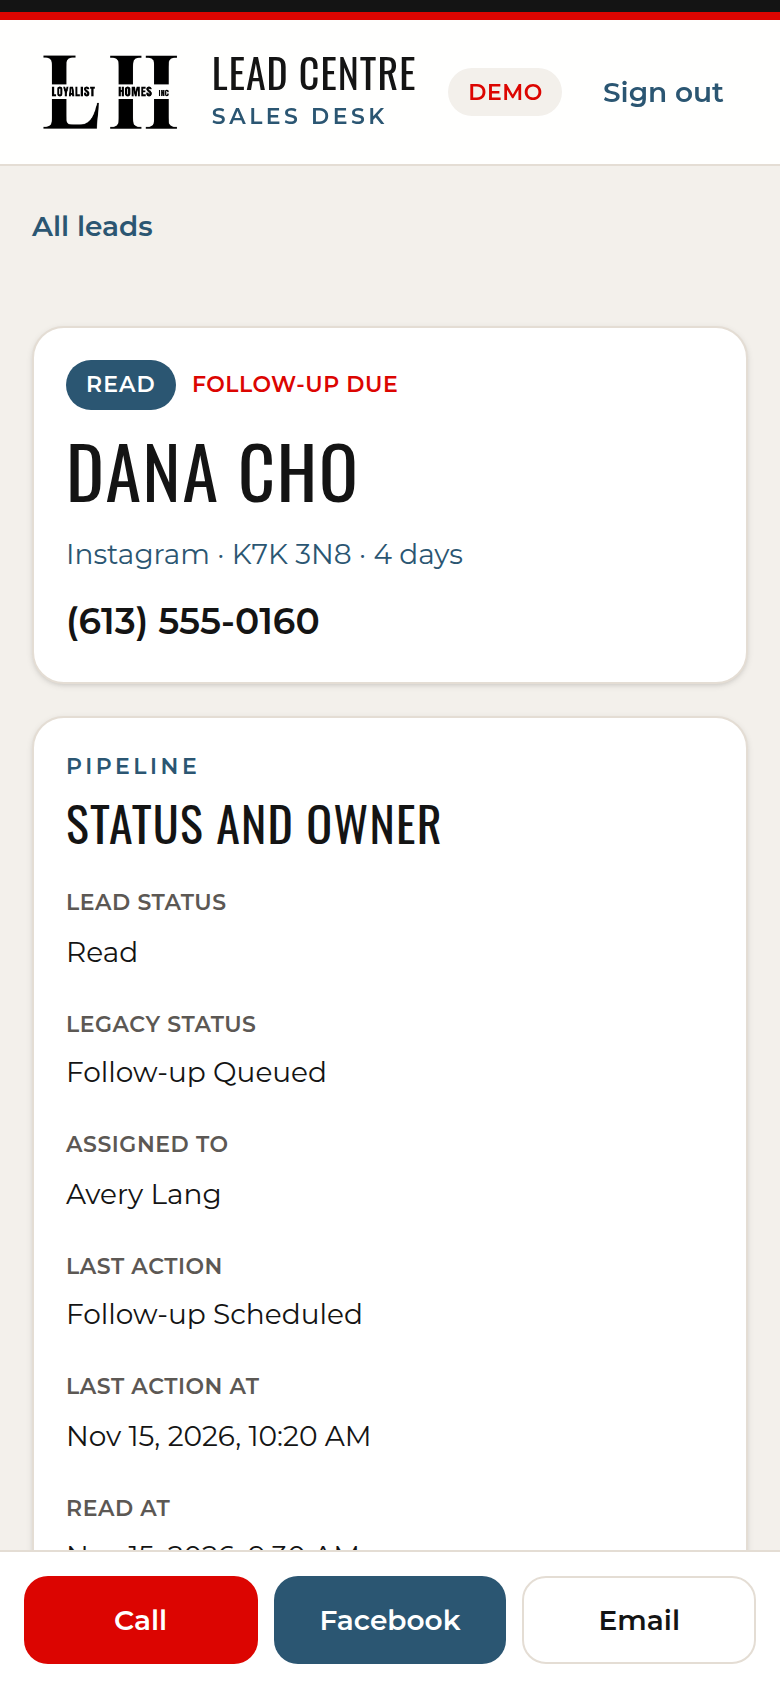
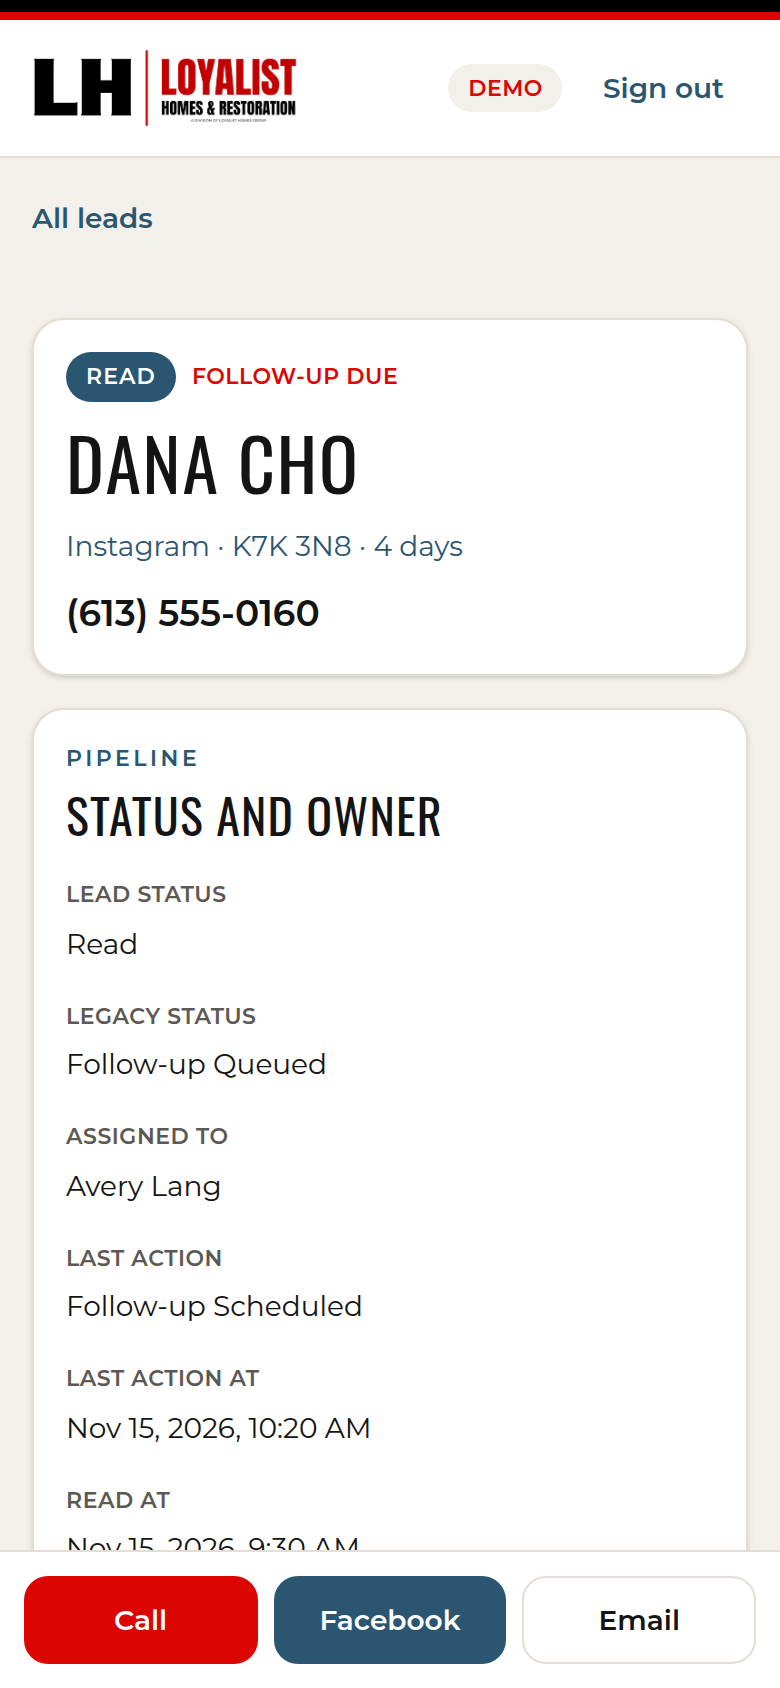
Use the Loyalist Homes & Restoration wordmark.
The light logo sits on the white header. The dark logo sits on the black sign-in panel.

diff --git a/components/shell.tsx b/components/shell.tsx
@@ -1,9 +1,10 @@
 "use client";
 
-import Image from "next/image";
 import Link from "next/link";
 import { useRouter } from "next/navigation";
 import type { ReactNode } from "react";
+
+import { BrandMark } from "@/components/brand-mark";
 
 export function Shell({ demo = false, children }: { demo?: boolean; children: ReactNode }) {
   const router = useRouter();
@@ -19,21 +20,14 @@ export function Shell({ demo = false, children }: { demo?: boolean; children: Re
       <a href="#content" className="sr-only focus:not-sr-only focus:absolute focus:left-4 focus:top-4 focus:z-50 focus:rounded-lg focus:bg-white focus:px-3 focus:py-2">
         Skip to content
       </a>
-      <header className="sticky top-0 z-20 border-b border-line bg-white/95 backdrop-blur">
-        <div className="h-1.5 bg-ink" />
+      <header className="sticky top-0 z-20 border-b border-line bg-white">
+        <div className="h-1.5 bg-black" />
         <div className="h-1 bg-accent" />
         <div className="mx-auto flex max-w-6xl items-center gap-3 px-4 py-3">
           <Link href="/" className="flex min-w-0 items-center gap-3">
-            <Image
-              src="/logo.png"
-              alt="Loyalist Homes Inc."
-              width={2058}
-              height={1268}
-              priority
-              className="h-12 w-auto max-w-[9.5rem] object-contain sm:h-14 sm:max-w-[11rem]"
-            />
-            <span className="min-w-0">
-              <span className="block font-display text-xl uppercase leading-none tracking-wide text-ink sm:text-2xl">
+            <BrandMark tone="light" className="h-10 w-auto sm:h-12" />
+            <span className="hidden min-w-0 sm:block">
+              <span className="block font-display text-xl uppercase leading-none tracking-wide text-ink">
                 Lead Centre
               </span>
               <span className="mt-1 block text-[11px] font-semibold uppercase tracking-[0.16em] text-navy">
@@ -59,7 +53,7 @@ export function Shell({ demo = false, children }: { demo?: boolean; children: Re
       </header>
       {children}
       <footer className="mx-auto max-w-6xl px-4 py-8 text-xs leading-5 text-muted">
-        <p>Loyalist Homes Inc. Times shown in Eastern Time (America/Toronto).</p>
+        <p>Loyalist Homes &amp; Restoration, a division of Loyalist Homes Group. Times shown in Eastern Time (America/Toronto).</p>
         <p className="mt-1">Calls, messages, and notes stay on the lead so the next person can pick it up.</p>
       </footer>
     </div>

diff --git a/components/login-form.tsx b/components/login-form.tsx
@@ -1,11 +1,11 @@
 "use client";
 
-import Image from "next/image";
 import { useSearchParams } from "next/navigation";
 import { useState, type FormEvent } from "react";
 
 import { ApiError, api } from "@/lib/api-client";
 import { safeNextPath } from "@/lib/lead-view";
+import { BrandMark } from "@/components/brand-mark";
 import { Button } from "@/components/button";
 
 export function LoginForm() {
@@ -32,20 +32,10 @@ export function LoginForm() {
 
   return (
     <div className="grid min-h-dvh lg:grid-cols-[minmax(0,0.92fr)_minmax(0,1.08fr)]">
-      <section className="flex flex-col bg-ink px-6 py-10 text-white lg:px-12 lg:py-16">
-        <div className="w-fit rounded-2xl bg-white p-3">
-          <Image
-            src="/logo.png"
-            alt="Loyalist Homes Inc."
-            width={2058}
-            height={1268}
-            priority
-            className="h-16 w-auto max-w-[14rem] object-contain"
-          />
-        </div>
+      <section className="flex flex-col bg-black px-6 py-10 text-white lg:px-12 lg:py-16">
+        <BrandMark tone="dark" className="h-auto w-full max-w-lg" />
         <div className="mt-10 max-w-md">
-          <p className="text-xs font-semibold uppercase tracking-[0.22em] text-accent">Loyalist Homes Inc.</p>
-          <h1 className="mt-3 font-display text-5xl uppercase leading-[0.95] tracking-wide sm:text-6xl">Lead Centre</h1>
+          <h1 className="font-display text-5xl uppercase leading-[0.95] tracking-wide sm:text-6xl">Lead Centre</h1>
           <p className="mt-5 max-w-sm text-base leading-7 text-white/80">
             A clear desk for Meta leads. Call, write it down, and the next person on the team can see exactly where it stands.
           </p>
@@ -56,7 +46,7 @@ export function LoginForm() {
         <form onSubmit={onSubmit} className="mx-auto w-full max-w-md rounded-3xl border border-line bg-white p-6 shadow-sm sm:p-8">
           <h2 className="font-display text-3xl uppercase tracking-wide">Team sign in</h2>
           <p className="mt-2 text-sm leading-6 text-muted">
-            This desk is for the Loyalist Homes sales team. One shared password, on this device only.
+            This desk is for the Loyalist Homes &amp; Restoration sales team. One shared password, on this device only.
           </p>
           <label htmlFor="password" className="mt-6 block text-sm font-semibold">
             Team password

diff --git a/app/layout.tsx b/app/layout.tsx
@@ -18,10 +18,10 @@ const montserrat = Montserrat({
 
 export const metadata: Metadata = {
   title: {
-    default: "Lead Centre · Loyalist Homes Inc.",
-    template: "%s · Loyalist Homes Inc.",
+    default: "Lead Centre · Loyalist Homes & Restoration",
+    template: "%s · Loyalist Homes & Restoration",
   },
-  description: "Sales desk for Loyalist Homes Inc. Meta leads.",
+  description: "Sales desk for Loyalist Homes & Restoration Meta leads.",
   robots: { index: false, follow: false },
 };
 

diff --git a/components/brand-mark.tsx b/components/brand-mark.tsx
@@ -1,0 +1,23 @@
+import Image from "next/image";
+
+const size = { width: 2343, height: 706 };
+
+export function BrandMark({
+  tone,
+  className,
+}: {
+  tone: "light" | "dark";
+  className?: string;
+}) {
+  const onDark = tone === "dark";
+  return (
+    <Image
+      src={onDark ? "/logo-dark.png" : "/logo-light.png"}
+      alt="Loyalist Homes & Restoration"
+      width={size.width}
+      height={size.height}
+      priority
+      className={className}
+    />
+  );
+}

diff --git a/proxy.ts b/proxy.ts
@@ -36,5 +36,5 @@ export function proxy(request: NextRequest) {
 }
 
 export const config = {
-  matcher: ["/((?!_next/static|_next/image|favicon.ico|logo.png|sample-transcript.txt).*)"],
+  matcher: ["/((?!_next/static|_next/image|favicon.ico|logo-light.png|logo-dark.png|sample-transcript.txt).*)"],
 };

diff --git a/README.md b/README.md
@@ -1,4 +1,4 @@
-# Loyalist Homes Inc. Lead Centre
+# Loyalist Homes & Restoration Lead Centre
 
 Sales desk for Meta ad leads. The team signs in with a shared password, works the Leads table in Airtable, and can run the same screens with sample data when no token is available.
 
